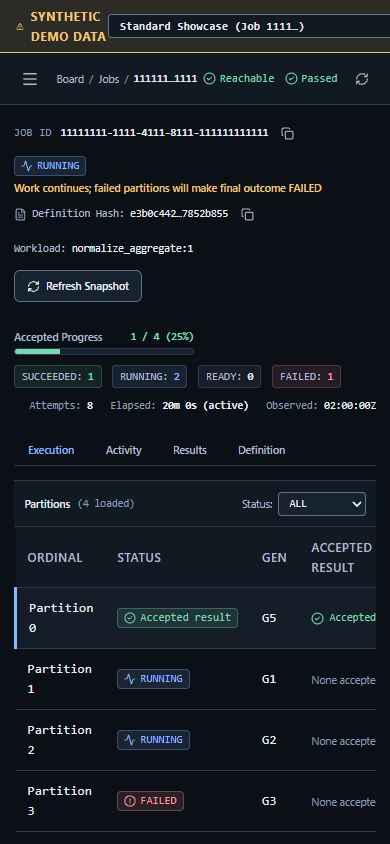
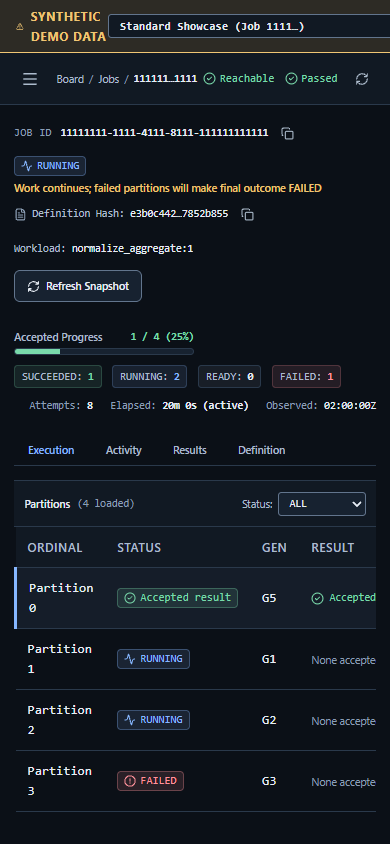
UI Rework: Final Responsive Table Closure

diff --git a/frontend/src/components/job/PartitionTable.tsx b/frontend/src/components/job/PartitionTable.tsx
@@ -64,14 +64,17 @@ export const PartitionTable: React.FC<PartitionTableProps> = ({
         <table className="relay-table">
           <thead>
             <tr>
-              <th scope="col" className="w-24">Ordinal</th>
-              <th scope="col" className="w-28">Status</th>
-              <th scope="col" className="w-20">Gen</th>
-              <th scope="col">Accepted Result</th>
-              <th scope="col">Latest Attempt</th>
-              <th scope="col">Lease / Deadline Observation</th>
-              <th scope="col">Last Error</th>
-              <th scope="col" className="w-16 text-right">Inspect</th>
+              <th scope="col" className="w-20 sm:w-24">Ordinal</th>
+              <th scope="col" className="w-24 sm:w-28">Status</th>
+              <th scope="col" className="w-14 sm:w-20">Gen</th>
+              <th scope="col">
+                <span className="hidden sm:inline">Accepted Result</span>
+                <span className="sm:hidden">Result</span>
+              </th>
+              <th scope="col" className="hidden lg:table-cell">Latest Attempt</th>
+              <th scope="col" className="hidden lg:table-cell">Lease / Deadline Observation</th>
+              <th scope="col" className="hidden md:table-cell">Last Error</th>
+              <th scope="col" className="w-12 sm:w-16 text-right">Inspect</th>
             </tr>
           </thead>
           <tbody>
@@ -152,7 +155,7 @@ export const PartitionTable: React.FC<PartitionTableProps> = ({
                     </td>
 
                     {/* Latest Attempt */}
-                    <td className="font-mono text-xs">
+                    <td className="font-mono text-xs hidden lg:table-cell">
                       {partition.attempt_id ? (
                         <CopyField value={partition.attempt_id} label="Attempt ID" shorten truncateLength={6} />
                       ) : (
@@ -161,7 +164,7 @@ export const PartitionTable: React.FC<PartitionTableProps> = ({
                     </td>
 
                     {/* Lease Observation */}
-                    <td>
+                    <td className="hidden lg:table-cell">
                       {isDeadlinePassed ? (
                         <ObservationBadge isDeadlinePassed={true} attemptStatus="ACTIVE" />
                       ) : partition.lease_expires_at ? (
@@ -174,7 +177,7 @@ export const PartitionTable: React.FC<PartitionTableProps> = ({
                     </td>
 
                     {/* Last Error */}
-                    <td>
+                    <td className="hidden md:table-cell">
                       {partition.last_error_code ? (
                         <span className="inline-flex items-center gap-1 font-mono text-xs text-[var(--color-failure)]">
                           <AlertTriangle size={12} aria-hidden="true" />

diff --git a/frontend/tests/slice1-closure-regressions.test.tsx b/frontend/tests/slice1-closure-regressions.test.tsx
@@ -396,4 +396,51 @@ describe('Relay Frontend Slice 1 Closure Pass Regressions', () => {
     // Must NOT say "0 recorded" or generic empty state
     expect(screen.queryByText('(0 recorded)')).not.toBeInTheDocument();
   });
+
+  // Requirement 9: Responsive Table Closure
+  it('9. Fix 3: Partition table gracefully hides secondary columns for narrow viewports', () => {
+    const normalPartitions = [
+      {
+        id: 'part-responsive',
+        ordinal: 0,
+        status: 'SUCCEEDED' as const,
+        generation: '1',
+        attempt_id: 'att-res-1',
+        lease_expires_at: null,
+        hard_deadline_at: null,
+        accepted_artifact_id: 'art-res',
+        latest_attempt_status: 'SUCCEEDED' as const,
+        eligible_at: null,
+        last_error_code: null
+      }
+    ];
+
+    render(
+      <PartitionTable
+        partitions={normalPartitions}
+        selectedPartitionId={null}
+        onSelectPartition={() => {}}
+        statusFilter="ALL"
+        onChangeStatusFilter={() => {}}
+        observedAt="2026-10-03T02:00:00Z"
+      />
+    );
+
+    // Verify desktop columns are present but have the right hidden classes
+    const latestAttemptHeader = screen.getByRole('columnheader', { name: /Latest Attempt/i });
+    expect(latestAttemptHeader).toHaveClass('hidden lg:table-cell');
+
+    const leaseHeader = screen.getByRole('columnheader', { name: /Lease \/ Deadline/i });
+    expect(leaseHeader).toHaveClass('hidden lg:table-cell');
+
+    const lastErrorHeader = screen.getByRole('columnheader', { name: /Last Error/i });
+    expect(lastErrorHeader).toHaveClass('hidden md:table-cell');
+
+    // The core info must remain visible without hidden classes
+    const statusHeader = screen.getByRole('columnheader', { name: /Status/i });
+    expect(statusHeader).not.toHaveClass('hidden lg:table-cell');
+    
+    const acceptedHeader = screen.getByRole('columnheader', { name: /Accepted Result/i });
+    expect(acceptedHeader).not.toHaveClass('hidden lg:table-cell');
+  });
 });
